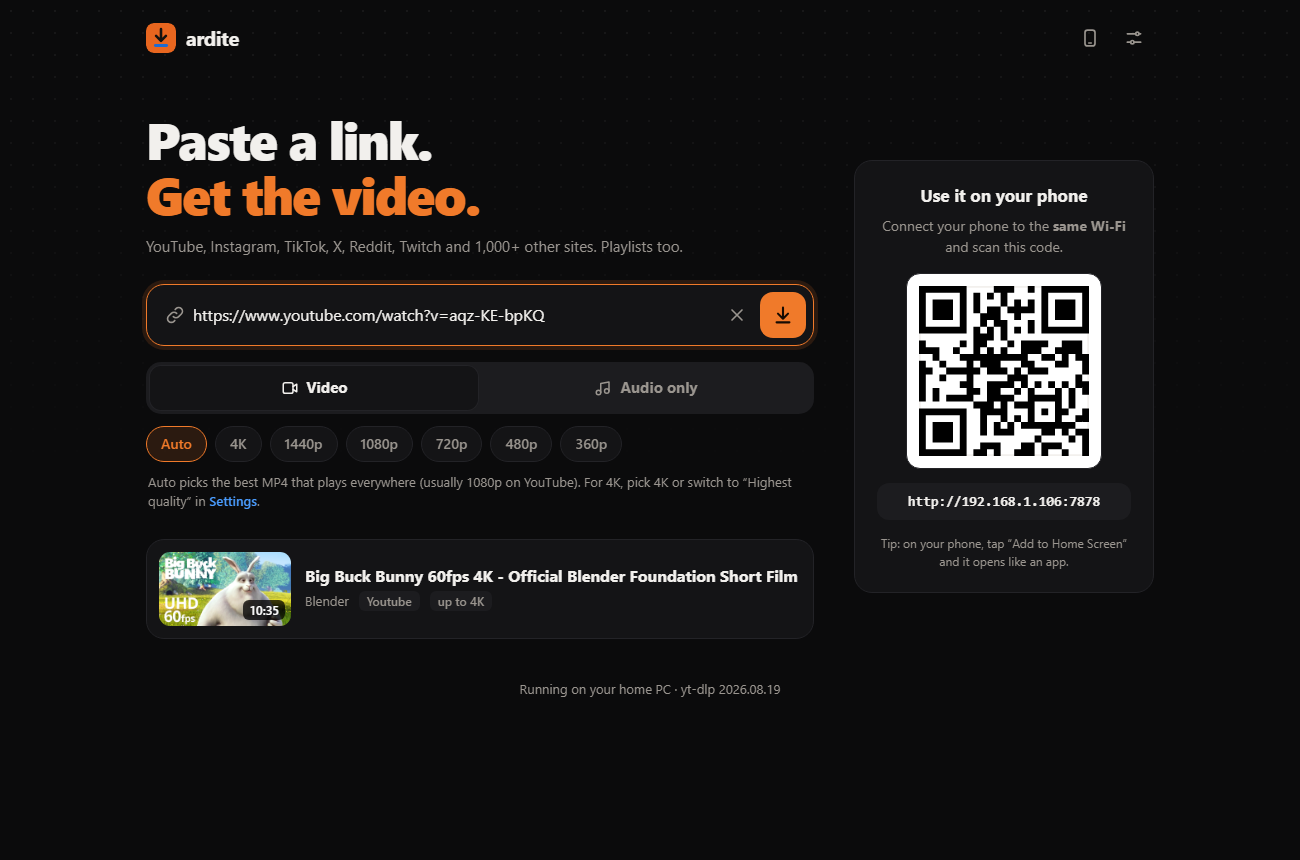
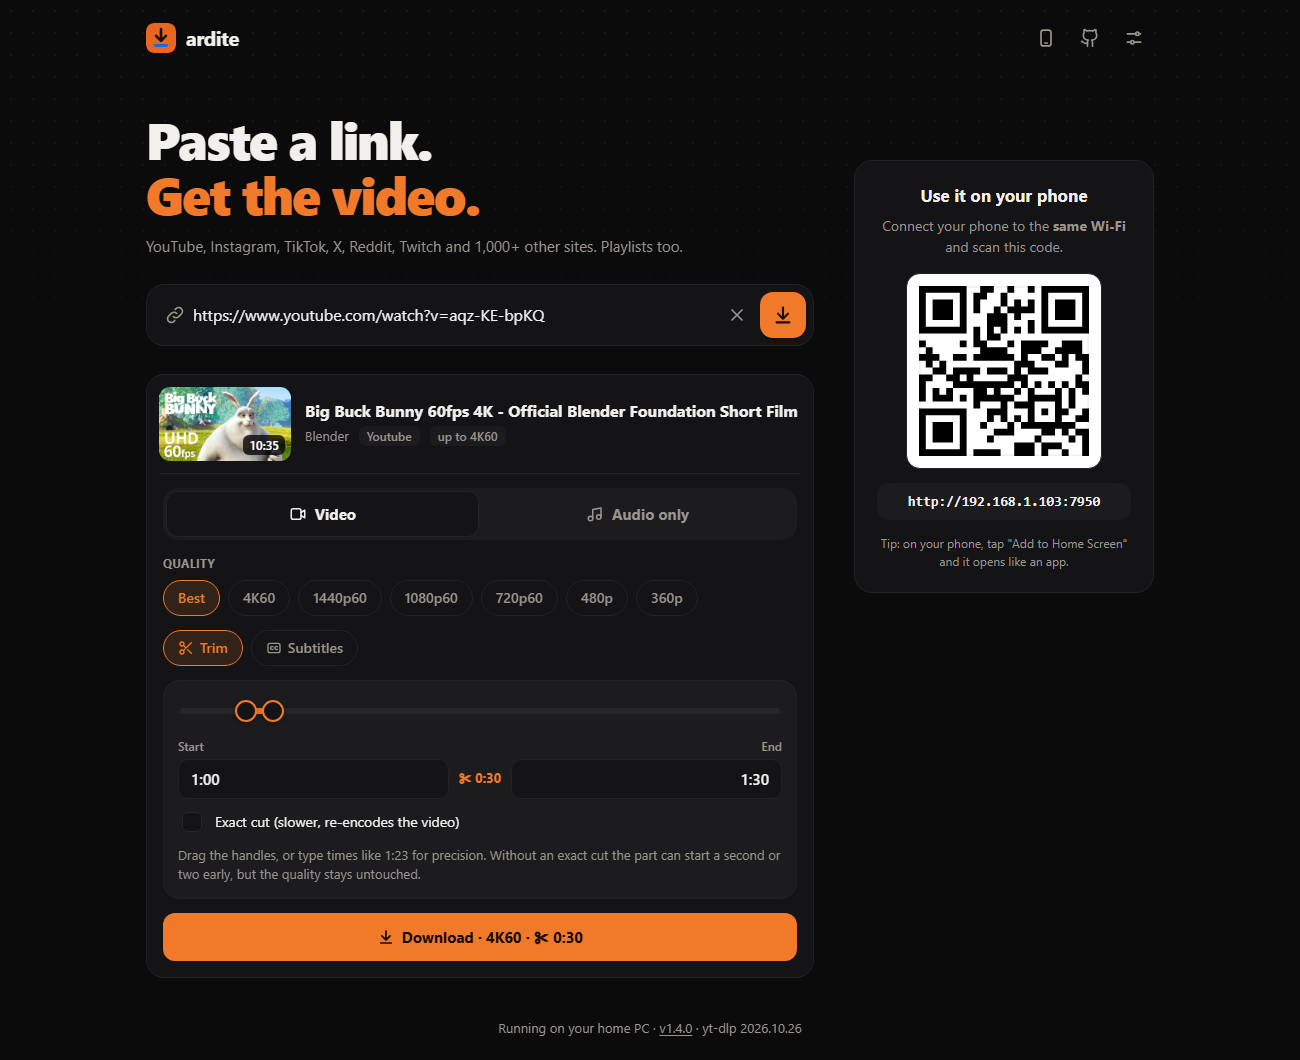
Add GitHub link and version to the UI, refresh README and screenshots

diff --git a/public/app.js b/public/app.js
@@ -1272,8 +1272,18 @@ function renderQr(url) {
 
 let serverStatus = null;
 
+// "Running on your home PC · v1.4.0 · yt-dlp 2026.10.26", the version linking to its release notes
 function renderFoot() {
-  if (serverStatus) $('#footInfo').textContent = t('foot.version', serverStatus.ytdlp || '?');
+  const s = serverStatus;
+  if (!s) return;
+  const repo = s.repo || $('#githubLink').href;
+  const released = /^\d+\.\d+\.\d+$/.test(s.version || '');
+  const version = s.version && h('a', {
+    href: released ? `${repo}/releases/tag/v${s.version}` : repo,
+    target: '_blank', rel: 'noopener noreferrer', title: released ? t('foot.release', s.version) : null,
+  }, released ? `v${s.version}` : 'dev');
+  const parts = [t('foot'), version, `yt-dlp ${s.ytdlp || '?'}`].filter(Boolean);
+  $('#footInfo').replaceChildren(...parts.flatMap((p, i) => (i ? [' · ', p] : [p])));
 }
 
 // "New version available" bar; closing it hides it until the next version comes out
@@ -1298,6 +1308,7 @@ async function loadStatus() {
   try {
     const s = await api('/api/status');
     serverStatus = s;
+    if (s.repo) $('#githubLink').href = s.repo;
     const lan = s.lan?.[0];
     renderFoot();
     renderUpdate();

diff --git a/public/index.html b/public/index.html
@@ -30,6 +30,9 @@
         <button id="phoneBtn" class="icon-btn" type="button" data-i18n-attr="title:phone.btn,aria-label:phone.btn" hidden>
           <svg viewBox="0 0 24 24"><rect x="6" y="2.5" width="12" height="19" rx="3"/><path d="M10.5 18h3"/></svg>
         </button>
+        <a id="githubLink" class="icon-btn" href="https://github.com/vuxenn1/ardite" target="_blank" rel="noopener noreferrer" data-i18n-attr="title:github,aria-label:github">
+          <svg viewBox="0 0 24 24"><path d="M15 22v-4a4.8 4.8 0 0 0-1-3.5c3 0 6-2 6-5.5.08-1.25-.27-2.48-1-3.5.28-1.15.28-2.35 0-3.5 0 0-1 0-3 1.5-2.64-.5-5.36-.5-8 0C6 2 5 2 5 2c-.3 1.15-.3 2.35 0 3.5A5.4 5.4 0 0 0 4 9c0 3.5 3 5.5 6 5.5-.39.49-.68 1.05-.85 1.65-.17.6-.22 1.23-.15 1.85v4"/><path d="M9 18c-4.51 2-5-2-7-2"/></svg>
+        </a>
         <button id="settingsBtn" class="icon-btn" type="button" data-i18n-attr="title:settings,aria-label:settings">
           <svg viewBox="0 0 24 24"><path d="M4 7h10M18 7h2M4 17h4M12 17h8"/><circle cx="16" cy="7" r="2"/><circle cx="10" cy="17" r="2"/></svg>
         </button>

diff --git a/public/i18n.js b/public/i18n.js
@@ -37,7 +37,8 @@ const STRINGS = {
     'device.linux': 'Linux',
     'device.other': 'Other device',
     'foot': 'Running on your home PC',
-    'foot.version': (v) => `Running on your home PC · yt-dlp ${v}`,
+    'foot.release': (v) => `What's new in v${v}`,
+    'github': 'Ardite on GitHub',
 
     'phone.btn': 'Open on your phone',
     'phone.title': 'Use it on your phone',
@@ -205,7 +206,8 @@ const STRINGS = {
     'device.linux': 'Linux',
     'device.other': 'Diğer cihaz',
     'foot': 'Evdeki bilgisayarında çalışıyor',
-    'foot.version': (v) => `Evdeki bilgisayarında çalışıyor · yt-dlp ${v}`,
+    'foot.release': (v) => `v${v} sürümünde neler var`,
+    'github': "GitHub'da Ardite",
 
     'phone.btn': 'Telefonda aç',
     'phone.title': 'Telefonunda kullan',

diff --git a/public/style.css b/public/style.css
@@ -128,6 +128,8 @@ svg { width: 20px; height: 20px; fill: none; stroke: currentColor; stroke-width:
 .top { grid-area: top; display: flex; align-items: center; justify-content: space-between; height: 52px; }
 .main { grid-area: main; min-width: 0; }
 .foot { grid-area: foot; text-align: center; color: var(--muted); font-size: 13px; padding-top: 32px; }
+.foot a { color: inherit; text-underline-offset: 2px; }
+.foot a:hover { color: var(--text); }
 
 .brand { display: flex; align-items: center; gap: 10px; color: var(--text); text-decoration: none; font-weight: 750; font-size: 20px; letter-spacing: -.02em; }
 .brand img { border-radius: 8px; }

diff --git a/server.js b/server.js
@@ -1081,6 +1081,7 @@ const server = http.createServer(async (req, res) => {
         update: latestRelease && isNewer(latestRelease.version, VERSION) ? latestRelease : null,
         ytdlp: ytdlpVersion,
         port: config.port,
+        repo: `https://github.com/${config.repo}`,
         lan: lanAddresses().map((ip) => `http://${ip}:${config.port}`),
         cookies: fs.existsSync(COOKIES_FILE) ? 'file' : config.cookiesFromBrowser || null,
       });

diff --git a/README.md b/README.md
@@ -10,21 +10,31 @@
 </p>
 
 <p align="center">
-  <img src="docs/desktop.png" width="640" alt="Desktop view">
+  <a href="https://github.com/vuxenn1/ardite/releases/latest"><img src="https://img.shields.io/github/v/release/vuxenn1/ardite?label=download&color=f07a2a" alt="Latest release"></a>
+  <a href="LICENSE"><img src="https://img.shields.io/github/license/vuxenn1/ardite?color=555" alt="MIT license"></a>
 </p>
 
 <p align="center">
-  <img src="docs/phone.png" width="260" alt="Phone view">
+  <img src="docs/desktop.png" width="680" alt="A video ready to download, with quality, trim and subtitle options">
+</p>
+
+<p align="center">
+  <img src="docs/phone.png" width="260" alt="A finished 4K60 download on a phone">
   &nbsp;&nbsp;
-  <img src="docs/playlist-light.png" width="260" alt="Playlist selection">
+  <img src="docs/playlist-light.png" width="260" alt="Picking videos from a playlist">
 </p>
 
 ## Features
 
-- Works with YouTube, Instagram, TikTok, X and [1000+ other sites](https://github.com/yt-dlp/yt-dlp/blob/master/supportedsites.md)
-- Video up to 4K or audio only (MP3, M4A, OPUS, WAV)
-- Playlists: pick the videos you want and download them as a ZIP
-- Use it from your phone by scanning the QR code on the PC
+- **1000+ sites**: YouTube, Instagram, TikTok, X, Reddit, Twitch and [many more](https://github.com/yt-dlp/yt-dlp/blob/master/supportedsites.md)
+- **Best quality**: up to 4K/8K and 60 fps, never re-encoded. Each download shows what it really got (e.g. "4K60 · VP9") and warns you if the site handed out a lower quality than usual.
+- **Audio only**: MP3, M4A, OPUS, WAV or the original format, with cover art
+- **Trim**: drag a slider to download only part of a video
+- **Subtitles**: pick languages, get them embedded in the video (switch them on or off in your player) or as separate `.srt` files
+- **Playlists**: choose the videos you want and get them as a ZIP
+- **Any device**: scan the QR code on the PC to open Ardite on your phone. Files are saved on whichever device you use.
+- **Shared history**: see what was downloaded on every device (titles and links only, never the files)
+- **English and Turkish**, light and dark theme
 
 ## Installation
 
@@ -36,23 +46,16 @@ Requires Windows 10/11. Nothing else to install.
 
 This downloads yt-dlp and ffmpeg, makes Ardite start in the background with Windows and opens the firewall for your home network.
 
-To update, run `stop.bat`, extract the new release over the old folder and run `install.bat` again. Your settings in the `data` folder are kept.
+### Updating
 
-<details>
-<summary>Running from source</summary>
-
-Requires [Node.js](https://nodejs.org) 20.15 or newer. Download this repository (**Code > Download ZIP**), extract it and double-click `install.bat`.
-
-To publish a release, push a tag like `v1.2.0`. GitHub Actions builds `Ardite-win64.zip` with Node.js included and attaches it to the release.
-
-</details>
+Ardite tells you when a new version is out. To update, run `stop.bat`, extract the new release over the old folder and run `install.bat` again. Your settings and history in the `data` folder are kept.
 
 ## Usage
 
 - On the PC: open **http://localhost:7878**
 - On a phone (same Wi-Fi): scan the QR code shown on the PC
 
-Paste a link, choose video or audio and press download.
+Paste a link. The video shows up in a card with all its options: video or audio, quality, trim and subtitles. The download button sums up what you'll get.
 
 | Script | What it does |
 |---|---|
@@ -61,7 +64,42 @@ Paste a link, choose video or audio and press download.
 | `status.bat` | Show status and addresses |
 | `uninstall.bat` | Remove autostart and the firewall rule |
 
-Some videos (age-restricted or private) require login. For these, put a `cookies.txt` file (Netscape format, exported with a browser extension) in the `data` folder. Keep it private.
+### Videos that need a login
+
+Some videos (age-restricted or private) require you to be signed in, and YouTube sometimes asks to confirm you're not a bot after many downloads. Put a `cookies.txt` file (Netscape format, exported with a browser extension) in the `data` folder. Keep it private.
+
+### Settings file
+
+Optional settings go in `data/config.json`, for example:
+
+```json
+{
+  "port": 7878,
+  "maxConcurrent": 2,
+  "keepFilesMinutes": 30,
+  "maxPlaylistItems": 500,
+  "cookiesFromBrowser": "firefox",
+  "updateCheck": true
+}
+```
+
+| Setting | Meaning |
+|---|---|
+| `port` | Address port (`http://localhost:<port>`) |
+| `maxConcurrent` | Downloads running at the same time |
+| `keepFilesMinutes` | How long finished files wait on the PC to be saved |
+| `maxPlaylistItems` | Most videos shown for a playlist |
+| `cookiesFromBrowser` | Use a browser's login instead of `cookies.txt` (`firefox`, `chrome`, `edge`…) |
+| `updateCheck` | Look for new Ardite versions on GitHub |
+
+<details>
+<summary>Running from source</summary>
+
+Requires [Node.js](https://nodejs.org) 20.15 or newer. Download this repository (**Code > Download ZIP**), extract it and double-click `install.bat`.
+
+To publish a release, push a tag like `v1.5.0`. GitHub Actions builds `Ardite-win64.zip` with Node.js included and attaches it to the release.
+
+</details>
 
 ## Disclaimer
 
